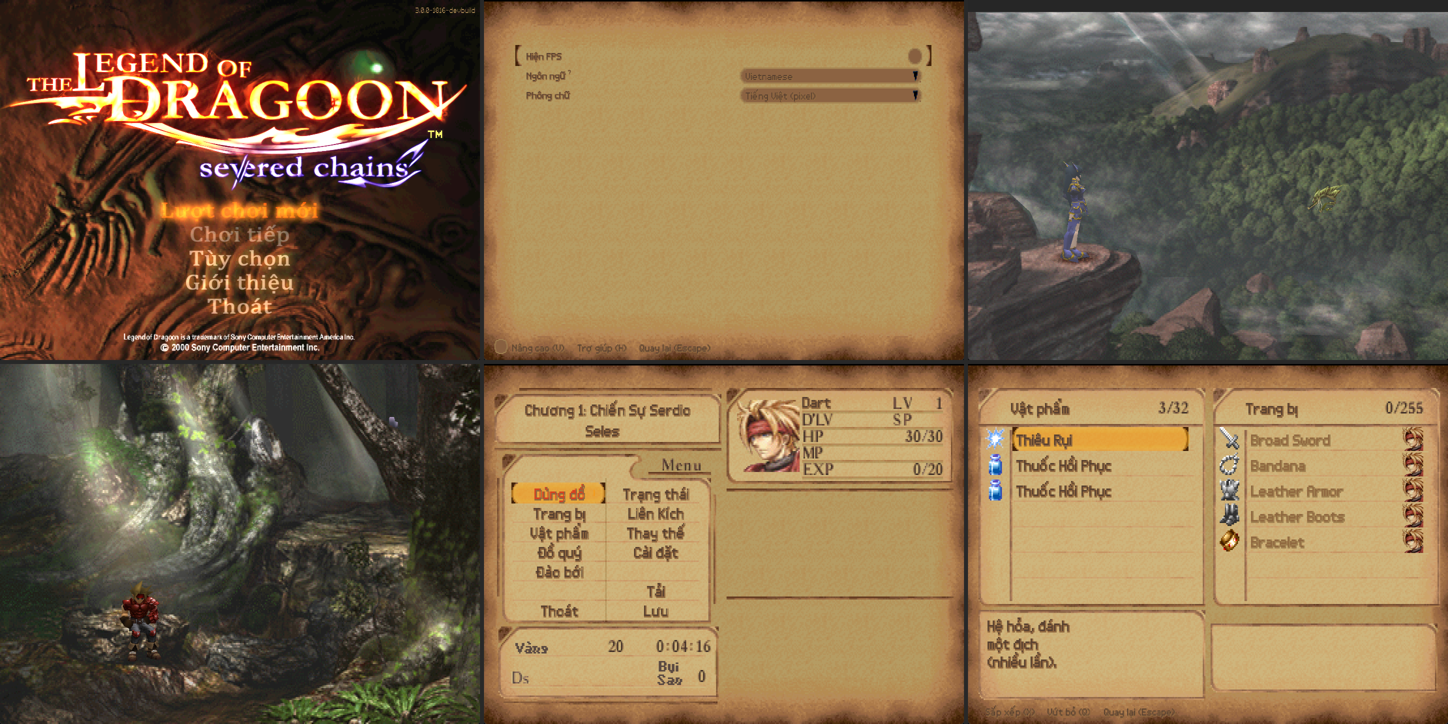
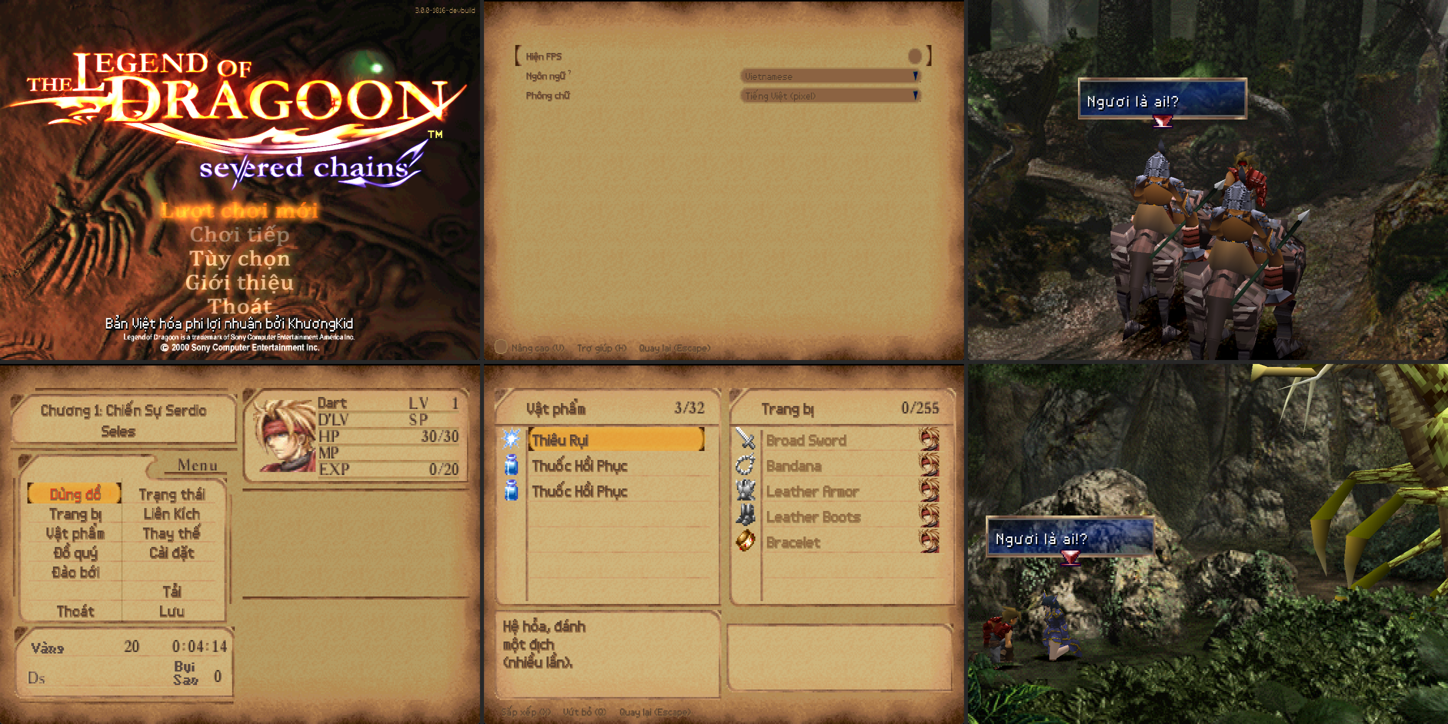
PHAT_HANH: ket qua kiem goi v0.2 cuoi (SHA 834384aa, cai sach dat); anh 31

diff --git a/PHAT_HANH.md b/PHAT_HANH.md
@@ -74,14 +74,14 @@ Lỗi tìm ra nhờ thử cài sạch và đã sửa trước khi phát hành:
 - Công cụ: menu SC chọn mục theo vị trí chuột (con trỏ nằm trên "Quit" + Enter làm game thoát) → `sc_ui.ps1` dời chuột ra
   ngoài cửa sổ trước khi bấm phím; phim intro chỉ chạy khi cửa sổ ở trên cùng → `test_cai.ps1` tự đưa cửa sổ lên.
 
-## Đã kiểm (v0.2 — bản dựng thử từ 375e2cd, chờ duyệt menu màn tựa / vị trí dòng ghi công)
+## Đã kiểm (v0.2 — gói phát hành, dựng từ adb4e65; người dùng duyệt menu màn tựa + dòng ghi công phương án B ngày 17/10)
 
 | Kiểm | Kết quả |
 |---|---|
 | Tự kiểm khi dựng (`TagRoundTrip`) | 13.276 câu, 530 câu B0xx có bản nối dòng, 10 ca riêng, 0 lỗi |
-| Dựng 2 lần | cùng SHA-256 `7a4bd19f…` |
-| Nội dung gói | 51 file `vi/files`, `gfx/ui/title_menu.vi.png/.widths`, `gfx/ui/title_menu.png` giữ nguyên bản SC, 8 lớp sửa |
-| Cài sạch `test_cai.ps1 -Choi` | lên màn tựa 107 s (gồm giải nén), classpath đúng, không lỗi trong log; menu tựa tiếng Việt, Tùy chọn, thoại mở đầu, menu "Chương 1: Chiến Sự Serdio", Vàng/Bụi Sao, vật phẩm (`docs/anh/31`) |
[1 lines of base64/hex data omitted]
+| Nội dung gói | 52 file `vi/files` (gồm nền màn tựa có dòng ghi công, trùng từng byte ảnh đã duyệt), `gfx/ui/title_menu.vi.png/.widths`, `gfx/ui/title_menu.png` giữ nguyên bản SC, 8 lớp sửa |
+| Cài sạch `test_cai.ps1 -Choi` | lên màn tựa 114 s (gồm giải nén), classpath đúng, không lỗi trong log; menu tựa tiếng Việt + dòng ghi công, Tùy chọn, thoại mở đầu, menu "Chương 1: Chiến Sự Serdio", Vàng/Bụi Sao, vật phẩm (`docs/anh/31`) |
 | Trong game (thư mục `game`) | menu tựa Việt → English → Việt, vào/ra Giới thiệu (`docs/anh/28`); thẻ lưu cũ "Chương 4: Trăng & Số Mệnh" (`29`); trận + màn kết quả (`30`) |
 
 ## Đổi sang commit SC mới (khi cần)
